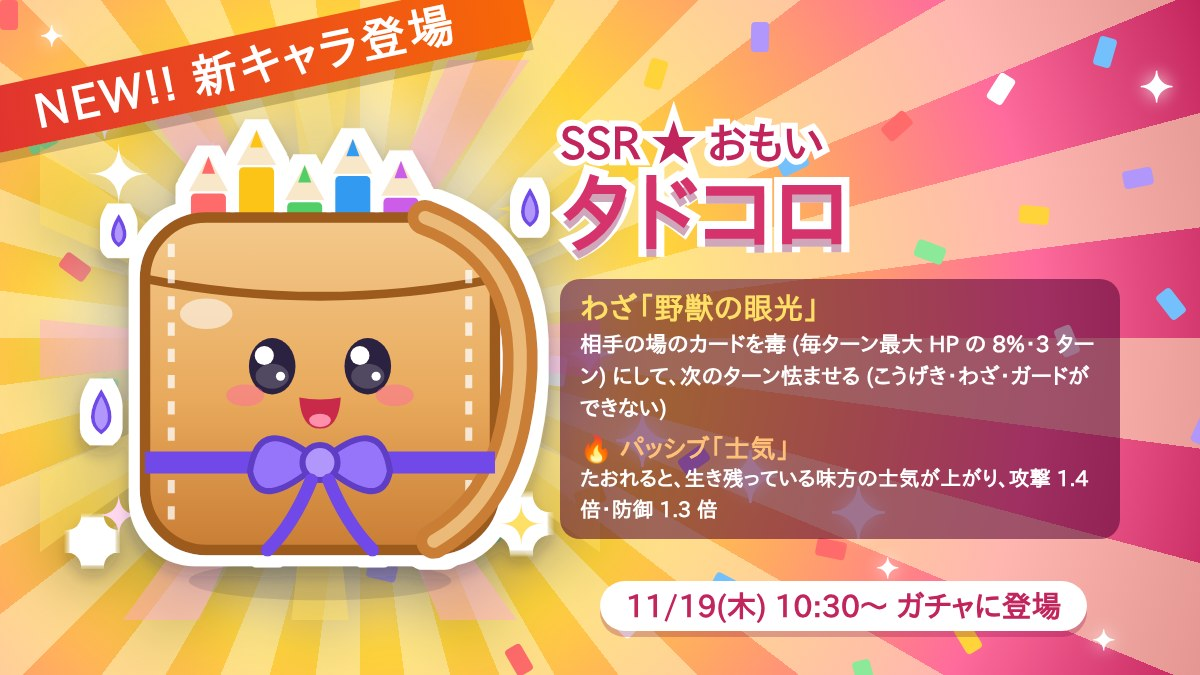
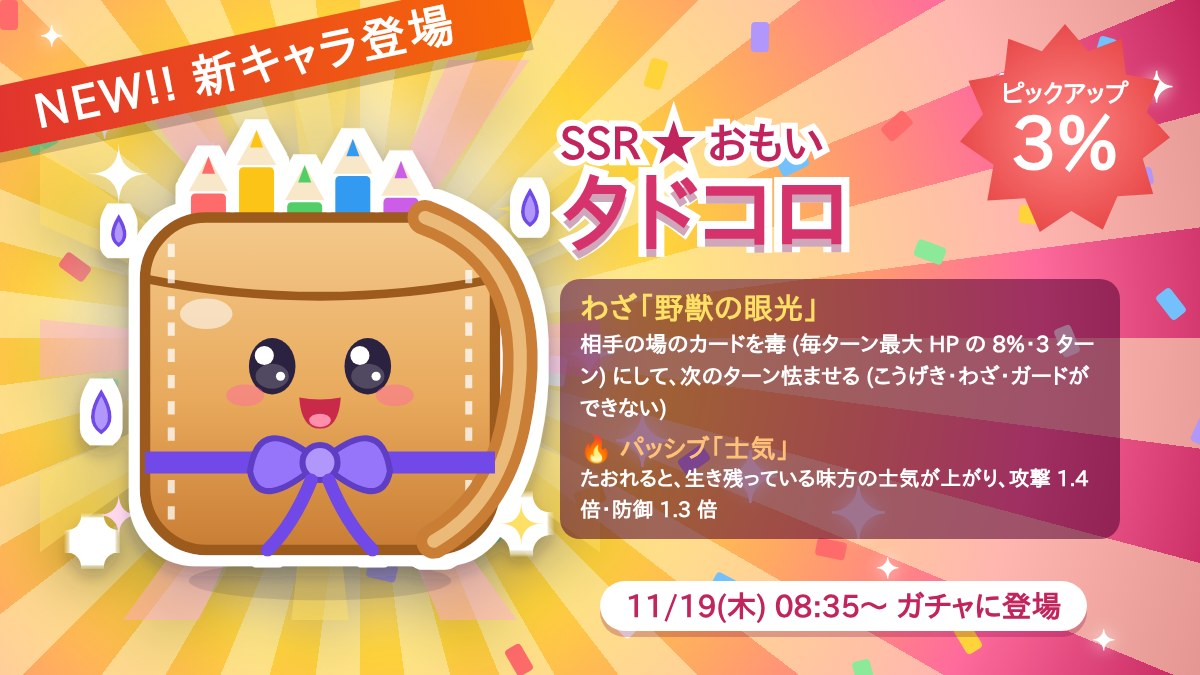
タドコロの登場を 11/19 8:35 に (ピックアップ 3%)、11/19 7:30 に今日のスケジュールを公式アカウントで投稿
- ハサミ丸のピックアップは 8:35 で終了、タドコロ ピックアップは 11/20 16:45 まで
- ガチャの告知 (gacha-2026-11-19) を追加、タドコロのバナーを作り直し

Claude-Session: https://claude.ai/code/session_0131LAB3VBSEDYy6z21kYLHB

Changed region(s): [[0.8017, 0.0311, 0.9867, 0.3422], [0.6475, 0.8711, 0.6783, 0.9333]]

diff --git a/cards.js b/cards.js
@@ -62,7 +62,7 @@ const CARD_LIST = [
   ['chalk', '伝説の黒板竜', '🐉', 'SSR', 'heavy', 67, 14, 12, 7, 'drain'],
   ['case', '虹色ペンケース姫', '🌈', 'SSR', 'wrap', 63, 16, 11, 15, 'barrier'],
   ['scissors', '疾風剣士ハサミ丸', '✂', 'SSR', 'cut', 54, 15, 6.9, 17, 'sweep'], // 2026-11-18 10:25 (日本時間) 登場
-  ['tadokoro', 'タドコロ', '🎒', 'SSR', 'heavy', 74, 20, 14, 12, 'venom'], // 2026-11-19 10:30 (日本時間) 登場。パッシブ「士気」
+  ['tadokoro', 'タドコロ', '🎒', 'SSR', 'heavy', 74, 20, 14, 12, 'venom'], // 2026-11-19 8:35 (日本時間) 登場 (ピックアップ 3%)。パッシブ「士気」
   ['star', '星キャンディー', '🍬', 'MR', 'wrap', 80, 19, 13, 13, 'starlight'], // MR: 期間限定クエストのクリア報酬 (ガチャには出ない)
   ['raijin', '雷神クリりん', '⚡', 'MR', 'cut', 62, 14, 10, 19, 'thunder'], // MR: 高難易度クエスト「雷神降臨」のクリア報酬 (2026-11-19 8:00 から)
 ];
@@ -73,7 +73,7 @@ const CARDS = Object.fromEntries(CARD_LIST.map(([id, name, emoji, rarity, type, 
 const BY_RARITY = Object.fromEntries(Object.keys(RARITY).map((r) => [r, CARD_LIST.filter((c) => c[3] === r).map((c) => c[0])]));
 // ---------- 新キャラの登場日時 (この時刻より前は、ガチャにも図鑑にも出さない。端末にも送らない) ----------
 // テストのときは環境変数 CB_RELEASE_<ID> (ミリ秒の時刻) で上書きできる
-const RELEASES = { scissors: Date.parse('2026-11-18T10:25:00+09:00'), star: Date.parse('2026-11-18T08:00:00+09:00'), tadokoro: Date.parse('2026-11-19T10:30:00+09:00'), raijin: Date.parse('2026-11-19T08:00:00+09:00') }; // 疾風剣士ハサミ丸: 2026 年 11 月 18 日 午前 10 時 25 分 (日本時間)
+const RELEASES = { scissors: Date.parse('2026-11-18T10:25:00+09:00'), star: Date.parse('2026-11-18T08:00:00+09:00'), tadokoro: Date.parse('2026-11-19T08:35:00+09:00'), raijin: Date.parse('2026-11-19T08:00:00+09:00') }; // 疾風剣士ハサミ丸: 2026 年 11 月 18 日 午前 10 時 25 分 (日本時間)
 for (const id of Object.keys(RELEASES)) { const v = Number(process.env['CB_RELEASE_' + id.toUpperCase()]); if (Number.isFinite(v) && v > 0) RELEASES[id] = v; }
 const NEW_DAYS = 7; // 登場から 7 日間は「新キャラ登場！」を出す
 const isReleased = (id, now = Date.now()) => !RELEASES[id] || now >= RELEASES[id];
@@ -117,7 +117,8 @@ const RATE_UPS = [
 // ---------- ピックアップ (そのキャラ 1 体の確率を決まった % にする。ほかのキャラは元の確率のまま。ふえた分は、ほかのレア度が同じ割合で下がる) ----------
 // テストのときは環境変数 CB_PICKUP_START (ミリ秒の時刻) で上書きできる
 const PICKUPS = [
-  { name: '新キャラ ピックアップ', id: 'scissors', rate: 3, start: Date.parse('2026-11-18T10:25:00+09:00'), end: Date.parse('2026-11-19T10:30:00+09:00') }, // 疾風剣士ハサミ丸 1 体で 3% (11/19 10:30 まで)
+  { name: '新キャラ ピックアップ', id: 'scissors', rate: 3, start: Date.parse('2026-11-18T10:25:00+09:00'), end: Date.parse('2026-11-19T08:35:00+09:00') }, // 疾風剣士ハサミ丸 1 体で 3% (タドコロの登場 11/19 8:35 まで)
+  { name: 'タドコロ ピックアップ', id: 'tadokoro', rate: 3, start: Date.parse('2026-11-19T08:35:00+09:00'), end: Date.parse('2026-11-20T16:45:00+09:00') }, // タドコロ 1 体で 3% (セールと同じ 11/20 16:45 まで)
 ];
 if (Number(process.env.CB_PICKUP_START)) PICKUPS[0].start = Number(process.env.CB_PICKUP_START);
 if (Number(process.env.CB_PICKUP_END)) PICKUPS[0].end = Number(process.env.CB_PICKUP_END);

diff --git a/official.js b/official.js
@@ -34,7 +34,8 @@ const H = 3600_000, D = 24 * H;
 // 手で書くアップデート情報 (key は変えない。at から until までの間に 1 回だけ投稿)
 // ガチャの告知 (その時のセール・ピックアップ・確率アップをまとめて知らせる)。id は変えない。at になったらドパバナーつきで投稿し、until までアプリにバナーを出す
 const GACHA_NOTICES = [
-  { id: '2026-11-18', at: Date.parse('2026-11-18T08:40:00+09:00'), until: Date.parse('2026-11-20T16:45:00+09:00') },
+  { id: '2026-11-18', at: Date.parse('2026-11-18T08:40:00+09:00'), until: Date.parse('2026-11-19T08:35:00+09:00') },
+  { id: '2026-11-19', at: Date.parse('2026-11-19T08:35:00+09:00'), until: Date.parse('2026-11-20T16:45:00+09:00') }, // タドコロ ピックアップ + セール
 ];
 // その告知の時点でのガチャの情報 (セール・これからのピックアップ・確率アップ)
 function gachaInfo(n) {
@@ -61,7 +62,7 @@ const UPDATES = [
 ・試合でもらえる「レベルアップ書」でカードのレベル上げ
 ・ガチャ限定 SSR は 3 枚で UR に昇格
 ゲーム → ぶんぼうぐバトラーズ ${TAG}` },
-  { key: 'preview-tadokoro-2026-11-18', at: Date.parse('2026-11-18T11:25:00+09:00'), until: Date.parse('2026-11-19T10:30:00+09:00'), banner: 'char-tadokoro',
+  { key: 'preview-tadokoro-2026-11-18', at: Date.parse('2026-11-18T11:25:00+09:00'), until: Date.parse('2026-11-19T08:35:00+09:00'), banner: 'char-tadokoro',
     text: `📣【新キャラ予告】明日 11/19(木) 10:30、SSR「タドコロ」がガチャに登場！
 わざ「野獣の眼光」: 相手を毒にして、次のターン怯ませる
 🔥 パッシブ「士気」: たおれると味方の攻撃 1.4 倍・防御 1.3 倍
@@ -71,6 +72,12 @@ const UPDATES = [
 敵は 雷神クリりん・疾風剣士ハサミ丸・黄金えんぴつ王 (全員 Lv20)。先を読む強い CPU が相手！
 わざ「落雷」は、どんな相性でも 2.3 倍の無属性こうげき。
 クリアすると MR「雷神クリりん」が仲間に！ 11/22(日) 8:00 まで ${TAG}` },
+  { key: 'schedule-2026-11-19', at: Date.parse('2026-11-19T07:30:00+09:00'), until: Date.parse('2026-11-19T08:35:00+09:00'), banner: 'quest-raijin-2026',
+    text: `📅【今日 11/19(木) のスケジュール】
+⚡ 8:00〜 高難易度クエスト「雷神降臨」(〜11/22 8:00) 最速・準最速の討伐者には称号！ おもいのタドコロが有利
+🎒 8:35〜 SSR「タドコロ」ガチャに登場！ ピックアップ 3% (〜11/20 16:45)
+※ 登場は予告の 10:30 から 8:35 に早まりました。ハサミ丸のピックアップは 8:35 で終了
+🔥 3日間限定セール (〜11/20 16:45)・🌠 星降る夜のクエスト (〜11/25 8:00) も開催中 ${TAG}` },
 ];
 
 const fmt = (t) => new Date(t).toLocaleString('ja-JP', { timeZone: 'Asia/Tokyo', month: 'numeric', day: 'numeric', weekday: 'short', hour: '2-digit', minute: '2-digit' });

diff --git a/tools/make_banners.js b/tools/make_banners.js
@@ -52,7 +52,7 @@ function charHtml(id, at) {
       <div style="margin-top:6px;font-size:22px;line-height:1.45;font-weight:700">${esc(sk.desc.replace(/\s*\([^()]*だけのわざ\)/, ''))}</div>
       ${cards.CARD_PASSIVE[id] ? `<div style="margin-top:10px;font-size:26px;color:#ffc078">🔥 パッシブ「${esc(cards.PASSIVES[cards.CARD_PASSIVE[id]].name)}」</div><div style="font-size:21px;line-height:1.45;font-weight:700">${esc(cards.PASSIVES[cards.CARD_PASSIVE[id]].desc)}</div>` : ''}</div>
     </div>
-    ${pk ? `<div class="badge" style="right:40px;bottom:30px;width:230px;height:230px;background:radial-gradient(#ff8787,#e03131)"><div><div style="font-size:26px">ピックアップ</div><div style="font-size:72px;line-height:1">${pk.rate}%</div></div></div>` : ''}
+    ${pk ? `<div class="badge" style="right:30px;top:24px;width:210px;height:210px;background:radial-gradient(#ff8787,#e03131)"><div><div style="font-size:26px">ピックアップ</div><div style="font-size:72px;line-height:1">${pk.rate}%</div></div></div>` : ''}
     <div class="date" style="left:600px;bottom:44px;background:#fff;color:#c2255c;box-shadow:0 6px 0 rgba(120,0,60,.25)">${esc(fmt(at))}〜 ガチャに登場</div>
   </div>`;
 }
